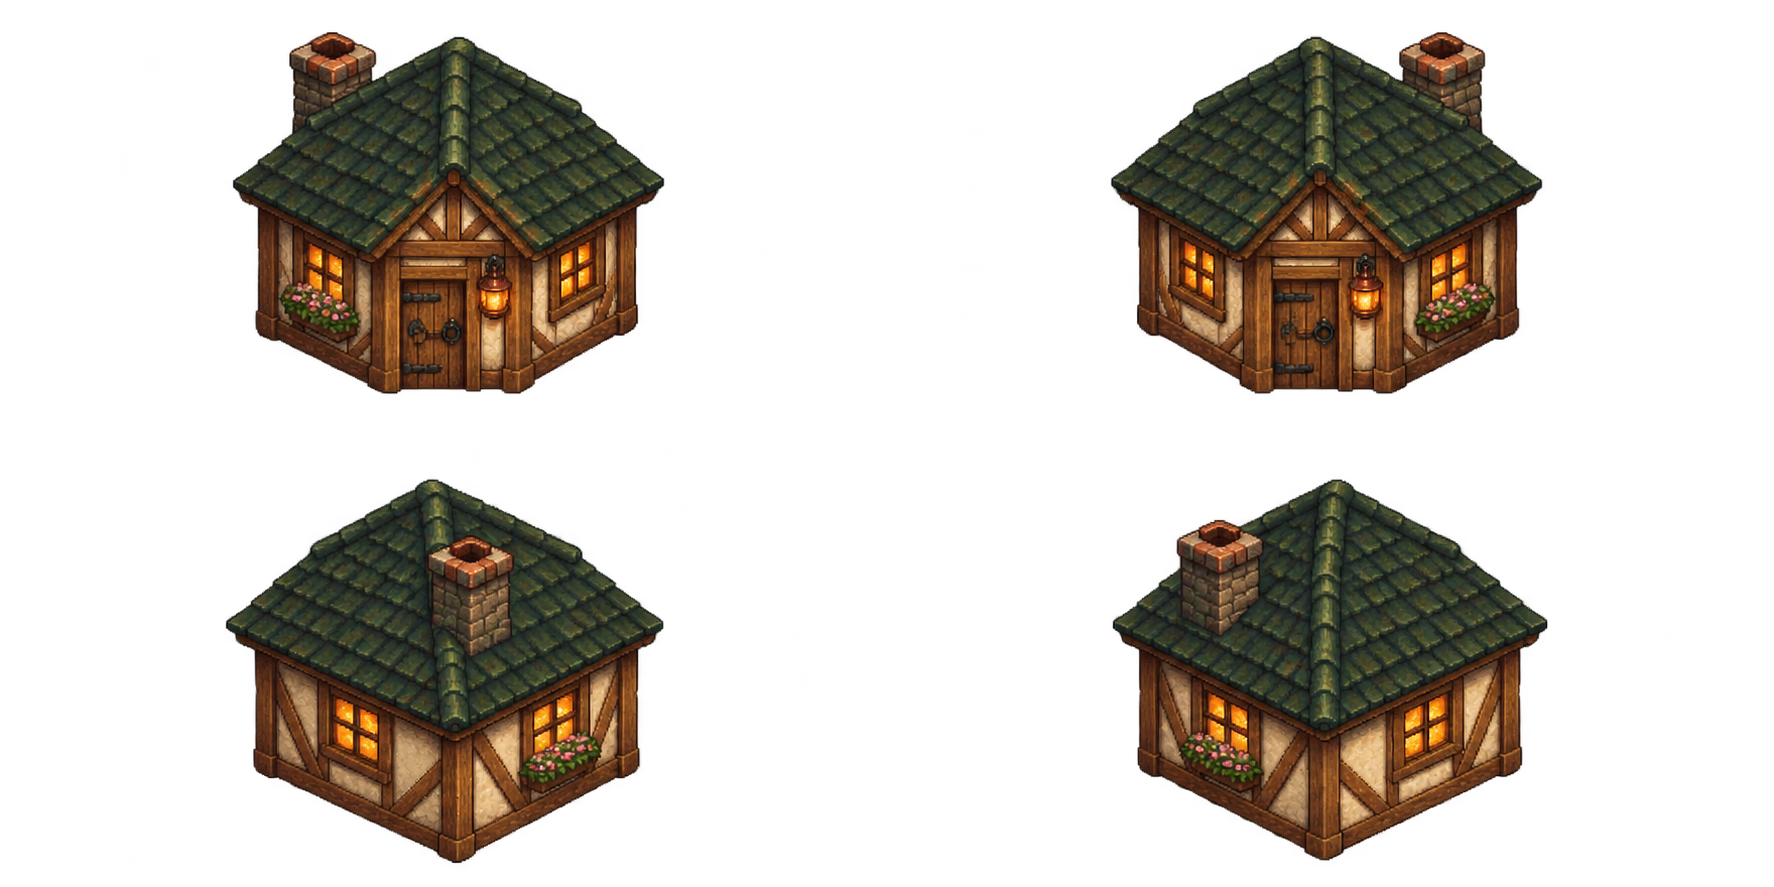
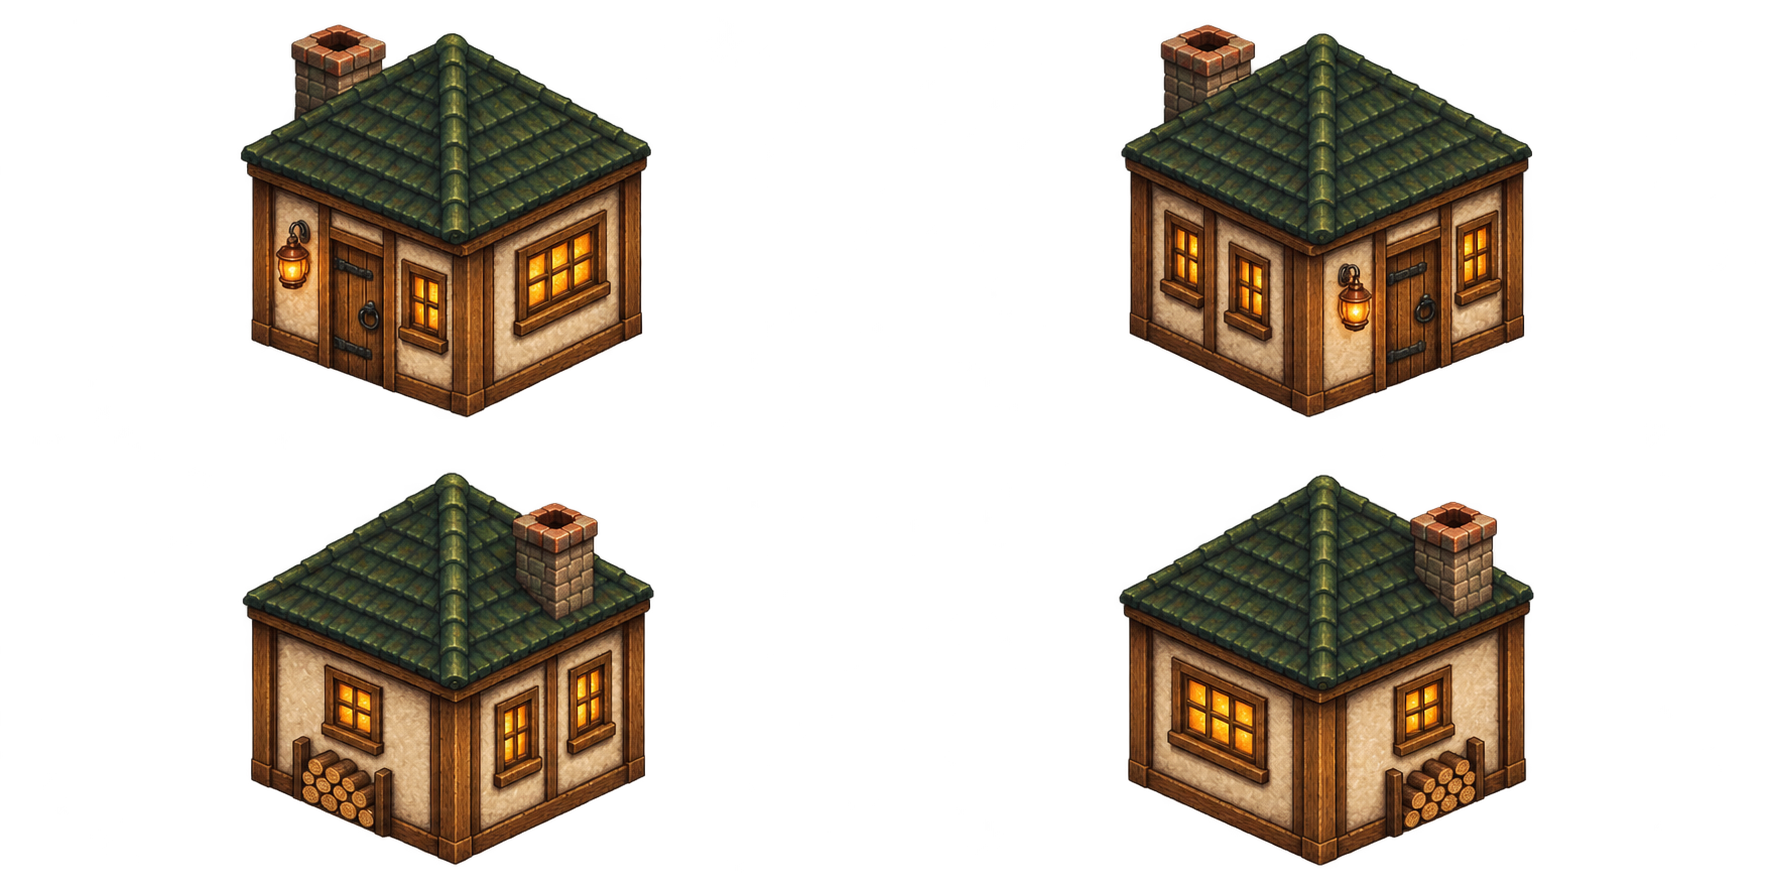
Correct cottage facades and mixed footprint draw order

diff --git a/src/scene.ts b/src/scene.ts
@@ -39,6 +39,7 @@ import {
 import {
   travelFacing,
   opaqueBounds,
+  buildingDepths,
   iso,
   fitGround,
   agentDistance,
@@ -815,9 +816,14 @@ export class TownScene extends Phaser.Scene {
         b.enabled ? 1 : 0.55,
       );
     }
+    const ordered=buildingDepths(this.simulation.state.buildings.filter(b=>!b.construction?.clearance).map(b=>{
+      const s=this.buildings.get(b.id)!,[width,height]=dimensions(b.kind,b.rotation,b.plot);
+      return {id:b.id,x:b.x,y:b.y,width,height,depth:s.depth,left:s.x,right:s.x+s.displayWidth,top:s.y,bottom:s.y+s.displayHeight};
+    }));
+    for(const [id,depth] of ordered)this.buildings.get(id)!.setDepth(depth);
     this.lightSources = [
       ...[...this.buildings.values()].filter(s=>!isPark(this.simulation.building(s.getData("buildingId"))?.kind??"")),
-      ...this.plazaArt.sync(this.simulation),
+      ...this.plazaArt.sync(this.simulation,ordered),
       ...this.trees.filter((t) => t.getData("streetlight")),
     ];
     this.occludingPlots = this.simulation.state.buildings.filter(b=>!b.construction?.clearance).map((b) => {
@@ -1499,14 +1505,14 @@ export class TownScene extends Phaser.Scene {
           )
           .setVisible(true)
           .setFlipX(false)
-          .setDepth((site.x + site.y + w + h - 2) * 32 + 12.25 + slot * 0.01);
+          .setDepth((this.buildings.get(site.id)?.depth??((site.x+site.y+w+h-2)*32+12))+.25+slot*.01);
       }
       const visiting=this.simulation.building(a.target),visit=parkVisitor(a,visiting,this.acc);
       if(visit&&visiting){
         const heading=travelFacing(visit.dx,visit.dy),turn=heading%2===1,texture=turn?'walkers-turns':'walkers',pose=walkFrame(Math.floor(heading/2),a.id%2,visit.elapsed*.45,!visit.walking,turn),v=iso(visit.x,visit.y);
         s.setTexture(texture,pose.frame).setScale(this.travellerScale({...a,kind:'person'},a.id%2,texture)).setOrigin(.5,1).setFlipX(pose.flip)
           .setPosition(v.x,v.y-groundHeight(visiting.x,visiting.y,this.simulation.state.terrain)-FOUNDATION_HEIGHT)
-          .setDepth((visiting.x+visiting.y+(visiting.kind==="garden"?6:2))*32+12.1+(visit.x-visiting.x+visit.y-visiting.y)*.08).setVisible(true).setData('sized',false);
+          .setDepth((this.buildings.get(visiting.id)?.depth??((visiting.x+visiting.y+(visiting.kind==="garden"?6:2))*32+12))+.1+(visit.x-visiting.x+visit.y-visiting.y)*.08).setVisible(true).setData('sized',false);
       }
       if (a.kind !== "person"&&!visit)
         this.animation.vehicle(

diff --git a/src/rendering.ts b/src/rendering.ts
@@ -17,6 +17,34 @@ export interface OccludingPlot {
   top: number;
   bottom: number;
 }
+/** Mixed plot sizes cannot be sorted by their frontmost corner alone: a 1×1
+ * home along the near edge of a 2×2/4×4 plot must appear above that plot.
+ * Resolve non-ambiguous footprint relations once after town edits. */
+export function buildingDepths(plots: readonly (OccludingPlot & {id:number})[]) {
+  const result=new Map(plots.map(p=>[p.id,p.depth]));
+  const after=new Map(plots.map(p=>[p.id,[] as number[]]));
+  const pending=new Map(plots.map(p=>[p.id,0]));
+  for(let i=0;i<plots.length;i++)for(let j=i+1;j<plots.length;j++){
+    const a=plots[i],b=plots[j];
+    if(a.right<=b.left||a.left>=b.right||a.bottom<=b.top||a.top>=b.bottom)continue;
+    const aBehind=a.x+a.width<=b.x||a.y+a.height<=b.y;
+    const bBehind=b.x+b.width<=a.x||b.y+b.height<=a.y;
+    // Diagonally separated plots have no unambiguous near/far relation.
+    if(aBehind===bBehind)continue;
+    const [back,front]=aBehind?[a,b]:[b,a];
+    after.get(back.id)!.push(front.id);pending.set(front.id,pending.get(front.id)!+1);
+  }
+  const queue=plots.filter(p=>pending.get(p.id)===0).sort((a,b)=>a.depth-b.depth||a.id-b.id).map(p=>p.id);
+  for(let i=0;i<queue.length;i++){
+    const id=queue[i];
+    for(const next of after.get(id)!){
+      result.set(next,Math.max(result.get(next)!,result.get(id)!+1));
+      pending.set(next,pending.get(next)!-1);
+      if(pending.get(next)===0)queue.push(next);
+    }
+  }
+  return result;
+}
 /** A multi-tile building has two front edges, not a single frontmost point.
  * Keep a traveller in front of either near edge, and behind both far edges.
  * Screen bounds limit comparisons to artwork that can actually overlap. */

diff --git a/src/plaza-art.ts b/src/plaza-art.ts
@@ -6,7 +6,7 @@ import type {Simulation} from './simulation.js';
 export class PlazaArt {
  private sprites:Phaser.GameObjects.Image[]=[];
  constructor(private scene:Phaser.Scene){}
- sync(sim:Simulation){
+ sync(sim:Simulation,depths:ReadonlyMap<number,number>=new Map()){
   for(const s of this.sprites)s.destroy();this.sprites=[];
   for(const b of sim.state.buildings.filter(b=>(b.kind==='park'||b.kind==='garden')&&!b.construction))for(const item of plazaLayout(b.rotation,b.kind==='garden'?4:2)){
    const size=b.kind==='garden'?4:2;const name='plaza-part-'+size+'-'+b.rotation+'-'+item.id;
@@ -15,7 +15,7 @@ export class PlazaArt {
     drawPlaza(ctx,this.scene.textures.get('park-parts').getSourceImage() as HTMLImageElement,this.scene.textures.get('park-benches').getSourceImage() as HTMLImageElement,b.rotation,item.id,size);t.refresh();
    }
    const p=iso(b.x,b.y),ground=iso(b.x+item.x,b.y+item.y),height=groundHeight(b.x,b.y,sim.state.terrain);ground.y-=height;
-   const s=this.scene.add.image(p.x-144,p.y-96-height,name).setOrigin(0).setScale(.25).setDepth((b.x+b.y+size*2-2)*32+12.1+(item.x+item.y)*.08).setData('buildingId',b.id).setData('plazaPart',true).setInteractive({pixelPerfect:true});
+   const s=this.scene.add.image(p.x-144,p.y-96-height,name).setOrigin(0).setScale(.25).setDepth((depths.get(b.id)??((b.x+b.y+size*2-2)*32+12))+.1+(item.x+item.y)*.08).setData('buildingId',b.id).setData('plazaPart',true).setInteractive({pixelPerfect:true});
    if(item.kind==='lamp')s.setData('streetlight',true).setData('lampGround',ground);
    this.sprites.push(s);
   }

diff --git a/src/building-art.ts b/src/building-art.ts
@@ -24,7 +24,7 @@ const grounds: Record<
   readonly PlotCorners[]
 > = {
   church:[[[28,450],[346,609],[558,503]],[[38,504],[250,610],[568,451]],[[47,472],[263,580],[587,418]],[[45,414],[369,576],[585,468]]],
-  cottage:[[[234,320],[447,426],[660,320]],[[224,320],[437,426],[650,320]],[[237,346],[450,453],[663,346]],[[227,346],[440,453],[653,346]]],
+  cottage:[[[236,331],[450,438],[664,331]],[[219,331],[433,438],[647,331]],[[236,339],[450,446],[664,339]],[[217,339],[431,446],[645,339]]],
   brickworks:[[[40,475],[320,615],[600,475]],[[25,480],[305,620],[585,480]],[[35,472],[315,612],[595,472]],[[35,472],[315,612],[595,472]]],
   tavern: [
     [
